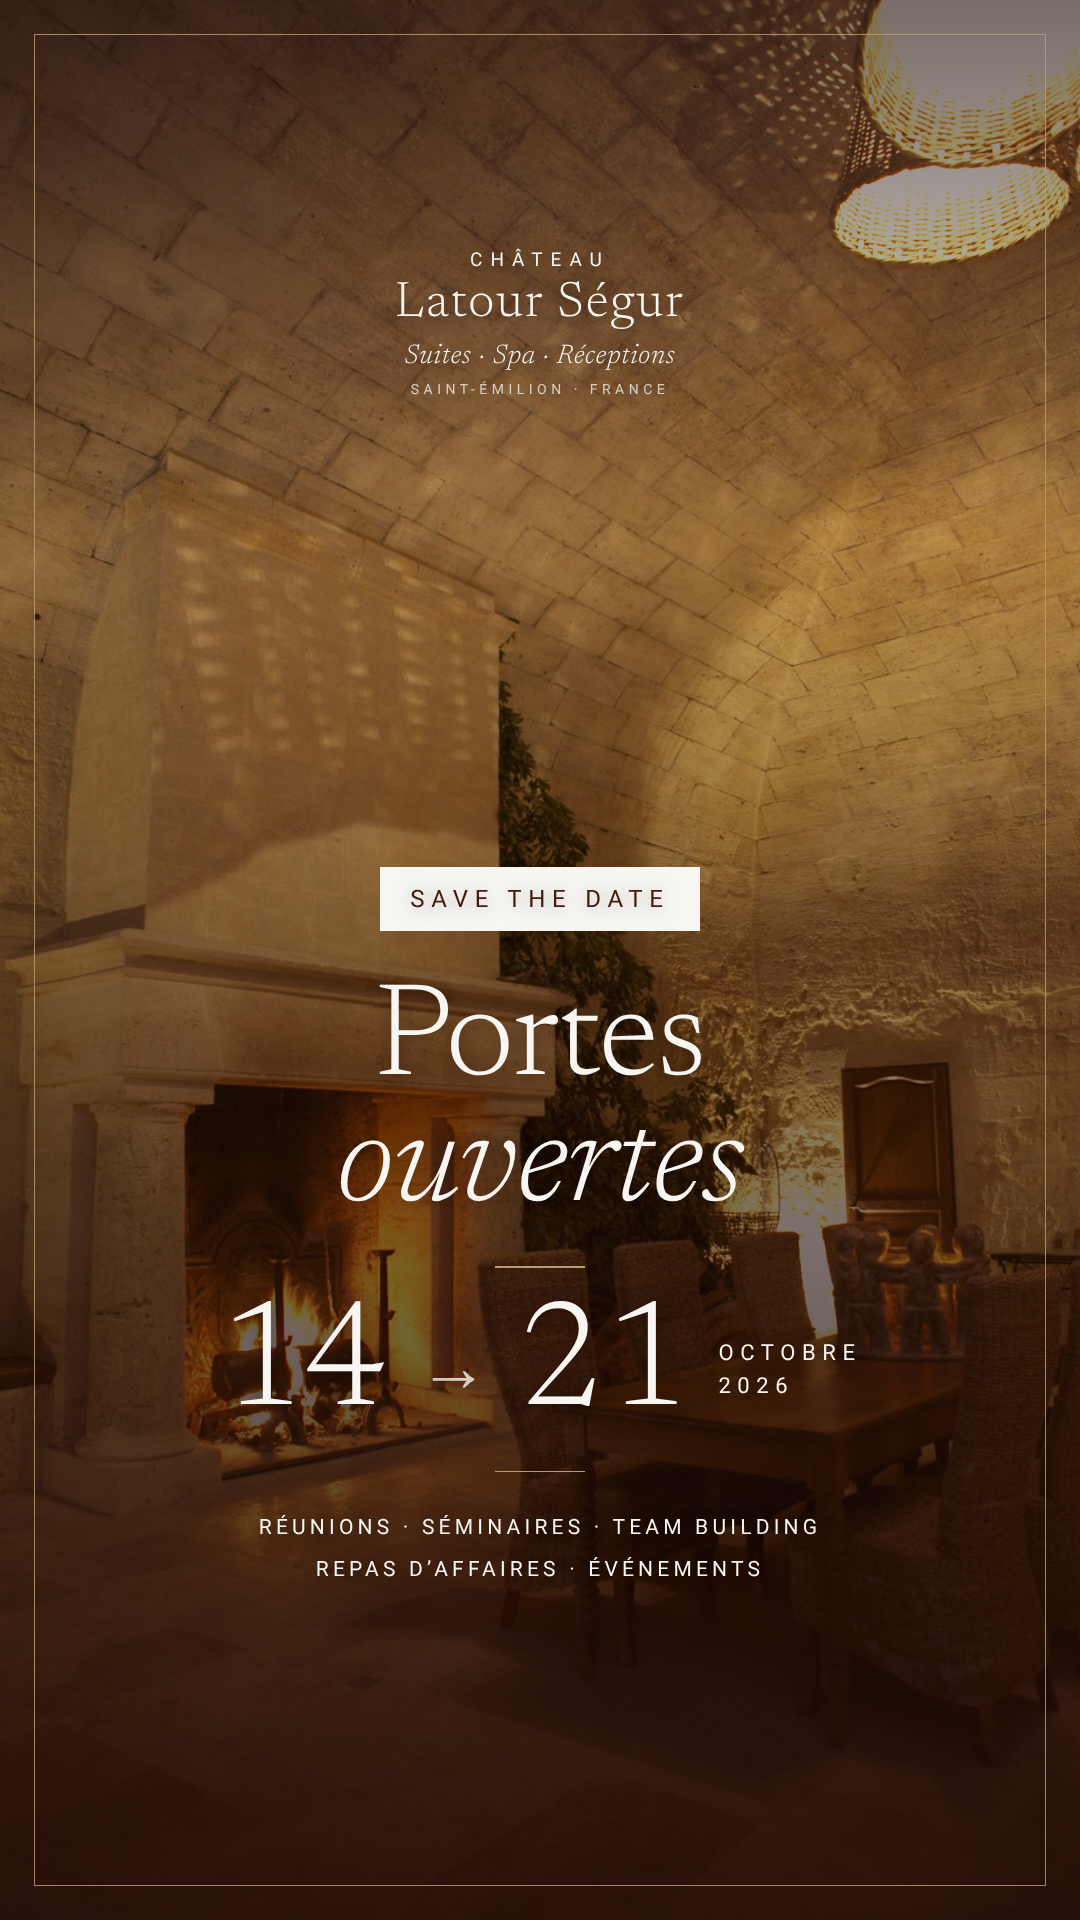
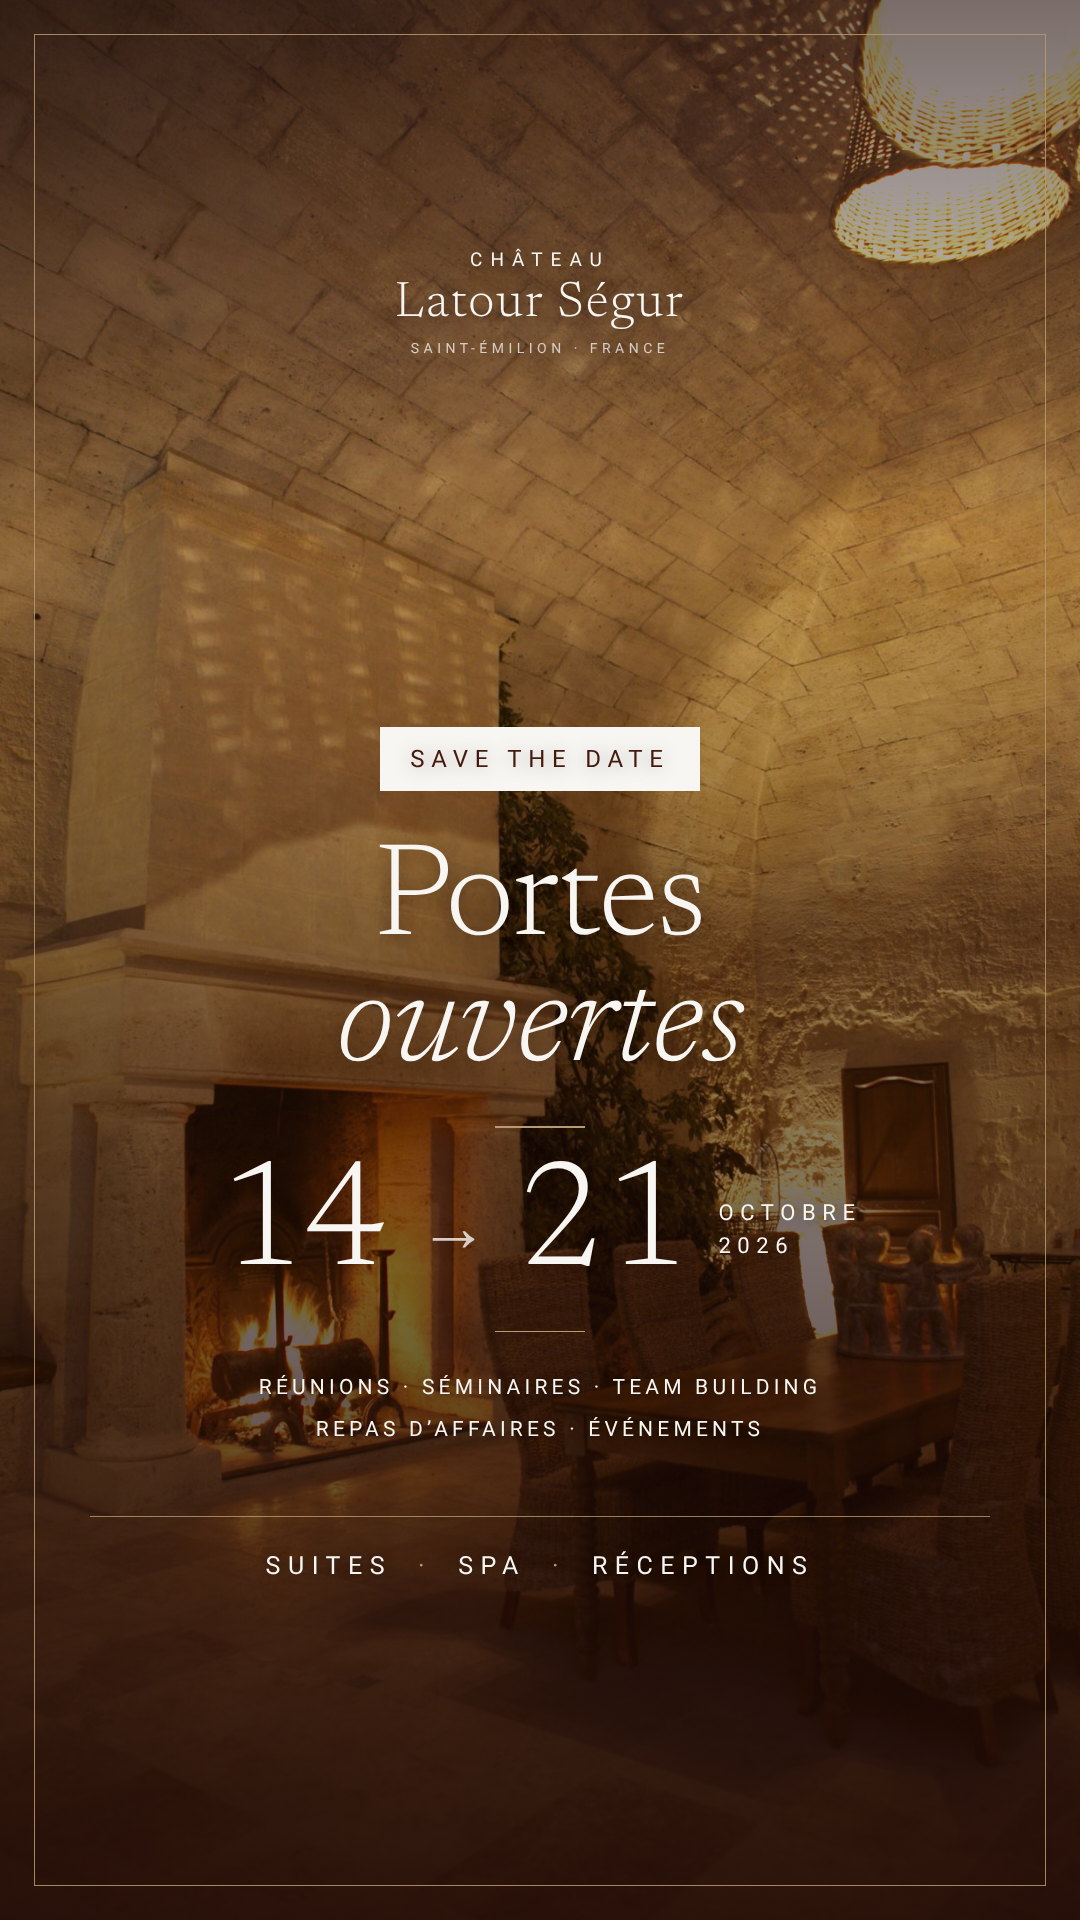
Slide « 3 facettes » dans les carrousels et bandeau Suites · Spa · Réceptions sur les stories
Claude-Session: https://claude.ai/code/session_01RWbJo1yhJv4HH7n6MCW2vE

diff --git a/social/portes-ouvertes-octobre-2026/publications.md b/social/portes-ouvertes-octobre-2026/publications.md
@@ -13,7 +13,7 @@ Pour les régénérer : `NODE_PATH=$(npm root -g) node social/portes-ouvertes-oc
 
 | Date | Où | Contenu |
 |---|---|---|
-| Dim. 11 oct. | Instagram feed | **Post 1** : carrousel 6 slides |
+| Dim. 11 oct. | Instagram feed | **Post 1** : carrousel 7 slides |
 | Lun. 12 oct. | Story IG + TikTok | **Story 1** « Save the date » + **TikTok 1** (visite du domaine) |
 | Mar. 13 oct. | Story IG | Repartage du carrousel + sticker compte à rebours « Portes ouvertes » |
 | Mer. 14 oct. | Story IG + Reel/TikTok | **Story 2** « C'est parti ! » + **TikTok 2** (les 4 formats) |
@@ -23,8 +23,8 @@ Pour les régénérer : `NODE_PATH=$(npm root -g) node social/portes-ouvertes-oc
 
 ---
 
-## POST 1 — Carrousel Instagram (6 slides)
-Visuels : `carrousel-1` à `carrousel-6`
+## POST 1 — Carrousel Instagram (7 slides)
+Visuels : `carrousel-1` à `carrousel-7`. La slide 2 présente les 3 facettes du château : Suites · Spa · Réceptions.
 
 **Légende :**
 
@@ -128,19 +128,20 @@ Texte à l'écran : **« On vous fait visiter ? 🏰 Jusqu'au 21/10 »**
 
 ## VERSION « SALLE DE RÉCEPTION & SPA »
 Visuels : dossier `visuels-salle-spa/` (photos d'origine dans `photos/`).
-Mêmes formats et même calendrier que ci-dessus. Le carrousel passe à 7 images, avec une image dédiée au Spa TerreHappy®.
+Mêmes formats et même calendrier que ci-dessus. Le carrousel passe à 8 images, avec une slide « 3 facettes » et une image dédiée au Spa TerreHappy®.
 
 | Image | Photo |
 |---|---|
 | 1. Couverture | Salle voûtée et sa cheminée |
-| 2. Réunions & séminaires | Présentation sous la voûte |
-| 3. Team building | Réception dans la salle voûtée |
-| 4. Repas d'affaires | Table au coin du feu |
-| 5. Vos événements | Soirée musicale devant la cheminée |
-| 6. Le Spa TerreHappy® | Couloir du spa et piscine |
-| 7. Contact | Fond bordeaux |
+| 2. Les 3 facettes | Suites · Spa · Réceptions (une bande photo par univers) |
+| 3. Réunions & séminaires | Présentation sous la voûte |
+| 4. Team building | Réception dans la salle voûtée |
+| 5. Repas d'affaires | Table au coin du feu |
+| 6. Vos événements | Soirée musicale devant la cheminée |
+| 7. Le Spa TerreHappy® | Couloir du spa et piscine |
+| 8. Contact | Fond bordeaux |
 
-Stories : salle voûtée (save the date), porte ouverte sur le couloir (« Les portes sont ouvertes », le 14), couloir du spa (derniers jours).
+Stories : salle voûtée (save the date), porte ouverte sur le couloir (« Les portes sont ouvertes », le 14), couloir du spa (derniers jours). Les 3 stories ont un bandeau « Suites · Spa · Réceptions » en bas.
 
 **Légende du carrousel :**
 
